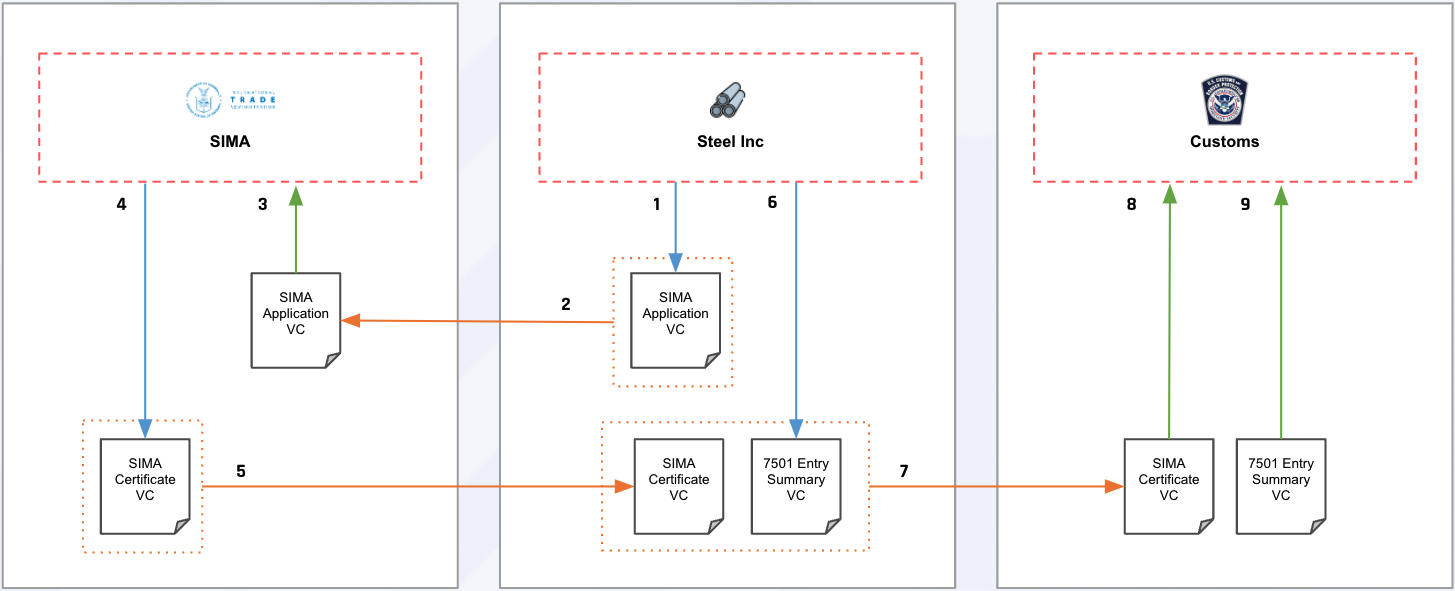
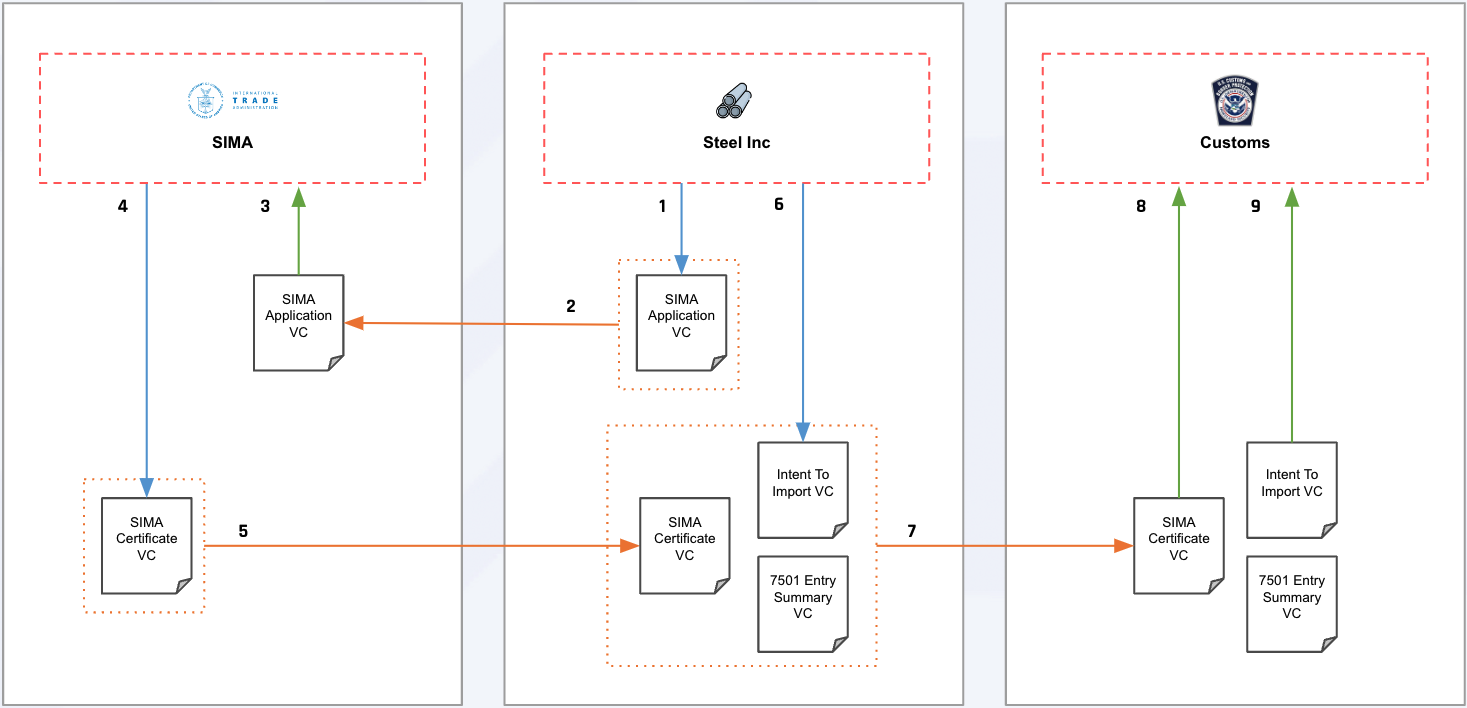
feat: iti added to sima workflow

diff --git a/docs/index.html b/docs/index.html
@@ -710,10 +710,10 @@ Issuers are advised to review the JSON-LD and all associated terms before issuin
           Steel Import Monitoring and Analysis verifies (3) and processes Steel Inc’s application, issues a SIMA Certificate (4) which is presented back to Steel Inc. (5).
         </p>
         <p>
-          At time of import, Steel Inc. issues a Commercial Invoice  of imported metals (6) which is presented to CBP together with the SIMA License (7).
+          At time of import, Steel Inc. issues an Intent To Import and Entry Summary credentials (6) which is presented to CBP together with the SIMA License (7).
         </p>
         <p>
-          CBP Verifies that the SIMA Certificate originates from the SIMA issuer (8) and that the certified organization match the issuer of the Commercial Invoice (9). 
+          CBP Verifies that the SIMA Certificate originates from the SIMA issuer (8) and that the certified organization match the issuer of the import credentials (9). 
         </p>
       <h5>Steel Import Under USMCA Free Trade Agreement</h5>
       <figure>
